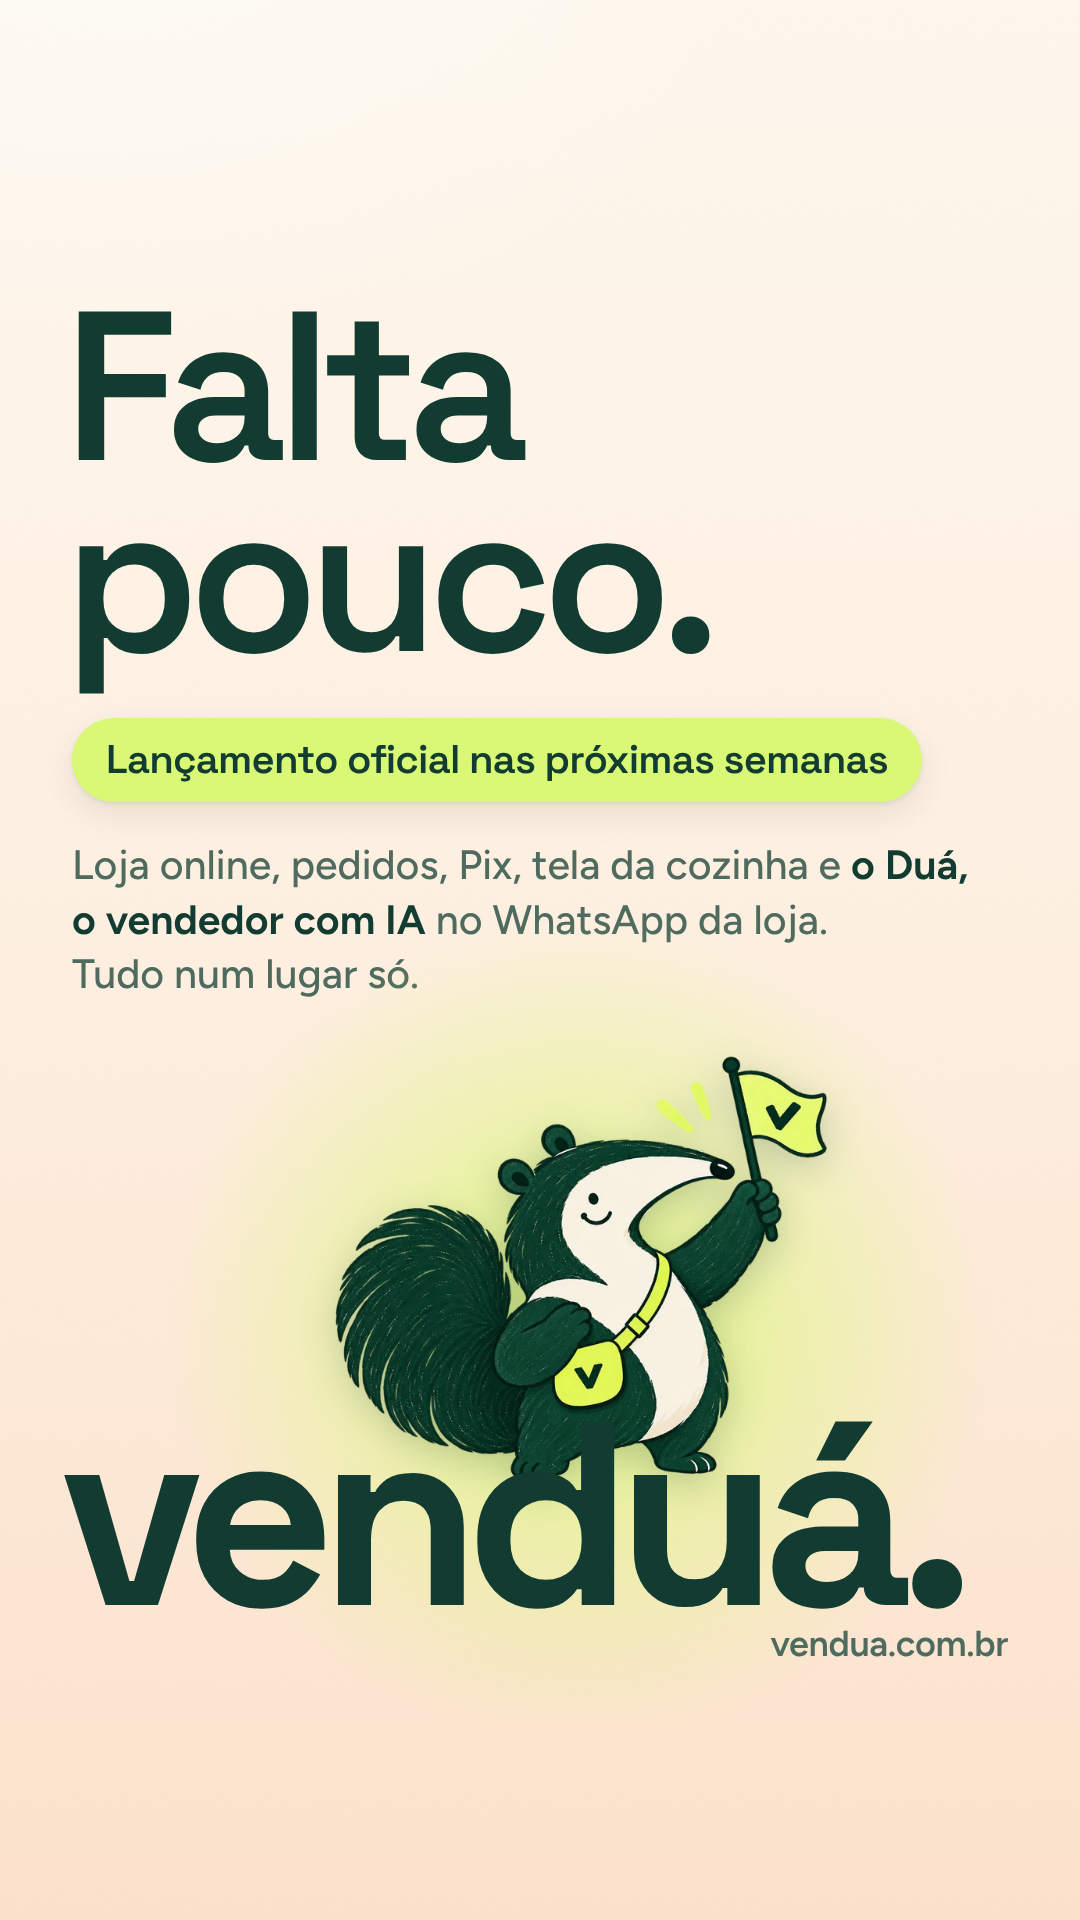
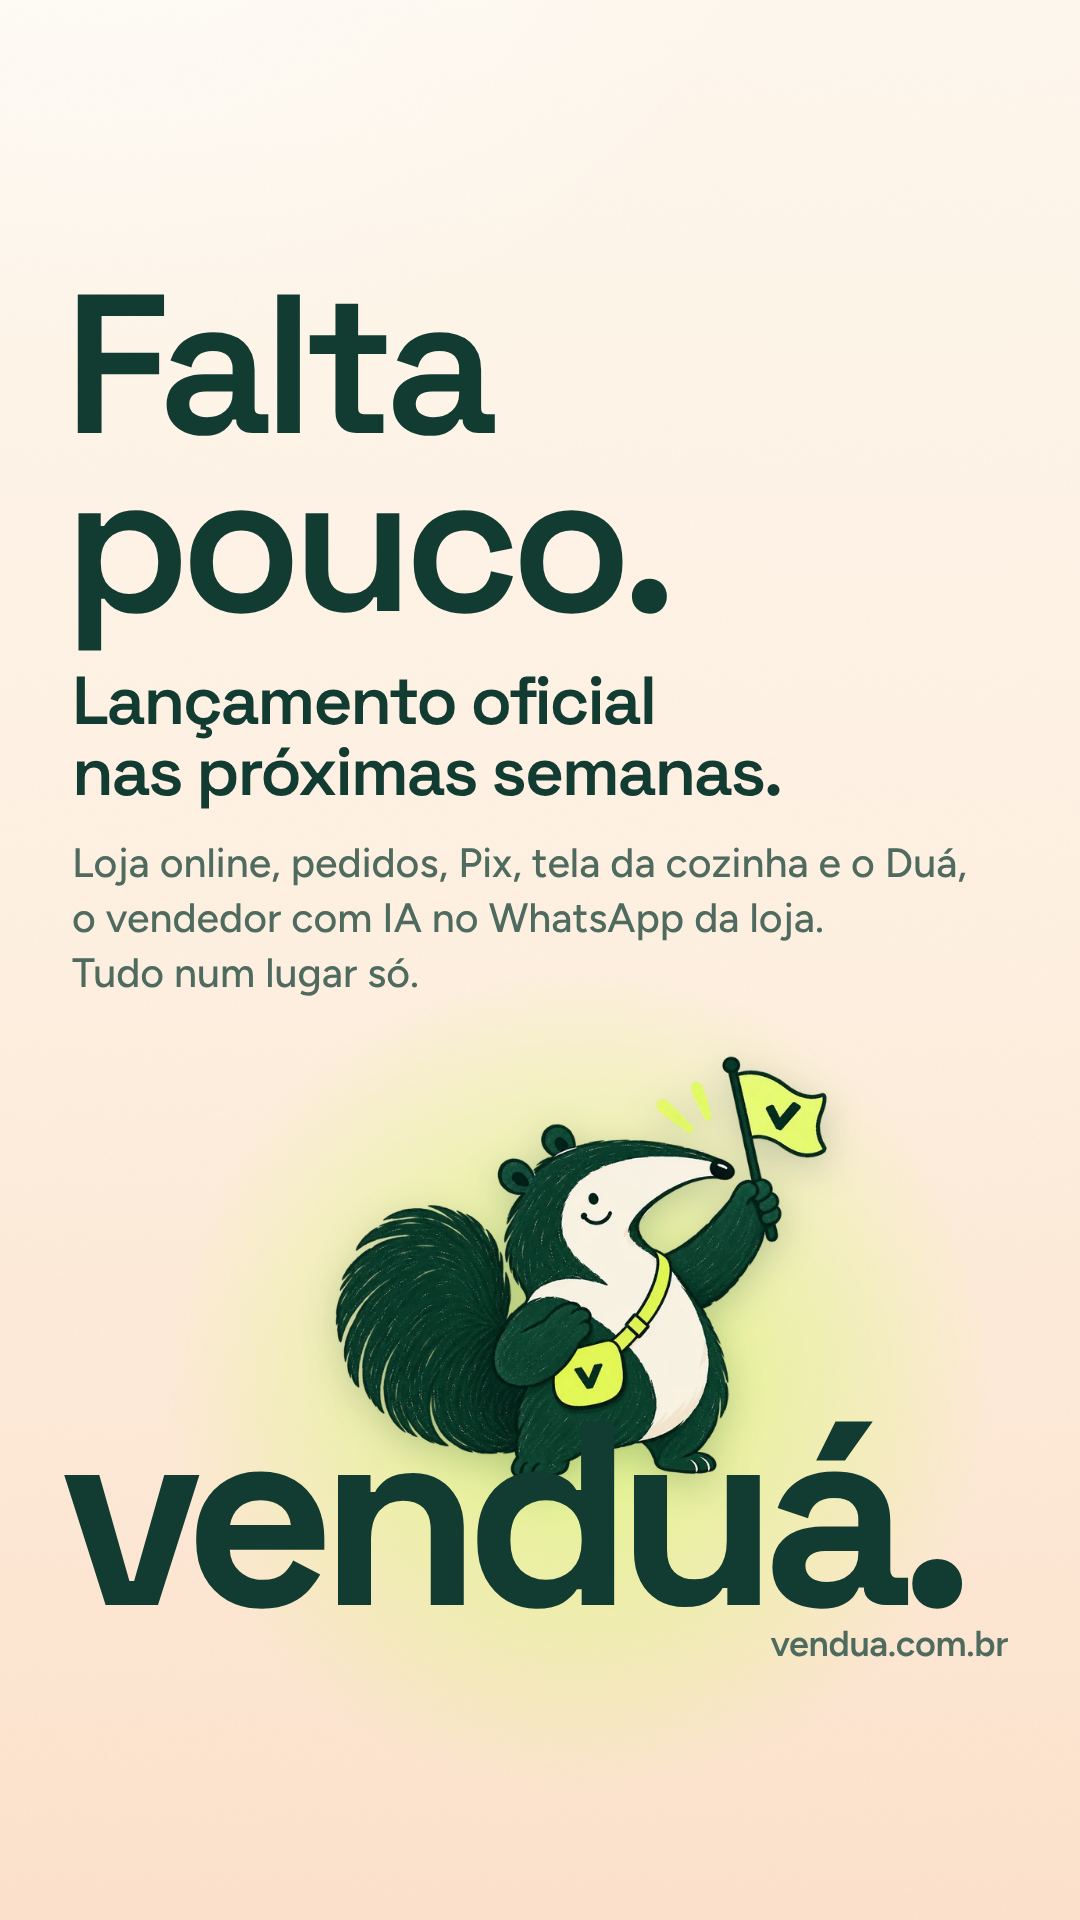
Brand: launch Story drops the lime pill for plain type
The timing line now sits under the headline as type (Space Grotesk 600, 68px)
instead of a shadowed lime badge; the headline shrinks a little so the copy
clears Duá's flag.

Claude-Session: https://claude.ai/code/session_01745rvSW5bq4zAuHBXHZbve

Changed region(s): [[0.0611, 0.1562, 0.8861, 0.5312]]

diff --git a/brand/social/story-lancamento.html b/brand/social/story-lancamento.html
@@ -53,50 +53,36 @@
         position: absolute;
         left: 72px;
         right: 72px;
-        top: 292px;
+        top: 276px;
       }
       h1 {
         font:
-          600 212px/0.9 "Space Grotesk",
+          600 198px/0.9 "Space Grotesk",
           sans-serif;
         letter-spacing: -0.05em;
         margin-left: -8px;
       }
-      .chip {
-        display: inline-flex;
-        align-items: center;
-        margin-top: 44px;
-        height: 84px;
-        padding: 0 34px;
-        border-radius: 999px;
-        background: #d9f875;
-        color: #123c32;
+      .when {
+        margin-top: 34px;
         font:
-          600 40px/1 "Space Grotesk",
+          600 68px/1.04 "Space Grotesk",
           sans-serif;
-        letter-spacing: -0.02em;
-        box-shadow:
-          0 2px 4px rgb(18 60 50 / 0.08),
-          0 12px 32px rgb(18 60 50 / 0.1);
+        letter-spacing: -0.035em;
       }
       .lede {
-        margin-top: 36px;
+        margin-top: 28px;
         max-width: 900px;
         font-size: 41px;
         line-height: 1.34;
         font-weight: 500;
         color: #4f6a5e;
       }
-      .lede b {
-        font-weight: 650;
-        color: #123c32;
-      }
 
       /* ── the sun coming up behind Duá ── */
       .sun {
         position: absolute;
         left: 150px;
-        top: 900px;
+        top: 950px;
         width: 860px;
         height: 860px;
         border-radius: 50%;
@@ -158,9 +144,9 @@
 
     <div class="copy">
       <h1>Falta<br />pouco.</h1>
-      <div class="chip">Lançamento oficial nas próximas semanas</div>
+      <p class="when">Lançamento oficial<br />nas próximas semanas.</p>
       <p class="lede">
-        Loja online, pedidos, Pix, tela da cozinha e <b>o Duá,<br />o vendedor com IA</b> no WhatsApp da loja.<br />Tudo num lugar só.
+        Loja online, pedidos, Pix, tela da cozinha e o Duá,<br />o vendedor com IA no WhatsApp da loja.<br />Tudo num lugar só.
       </p>
     </div>
 
